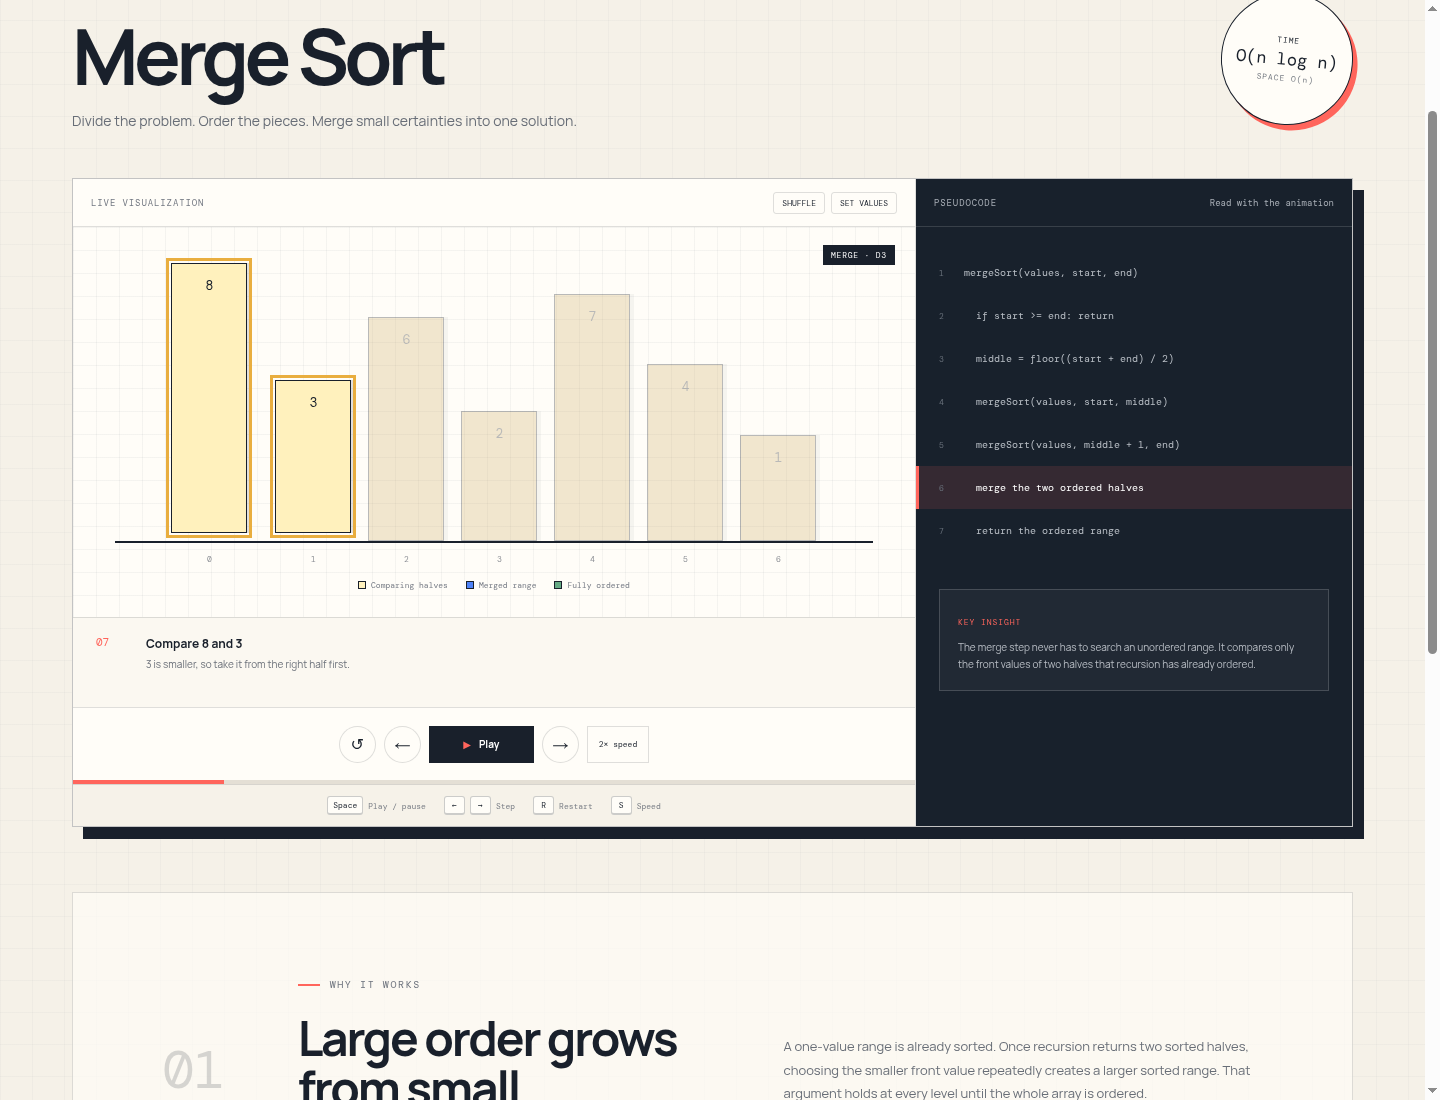
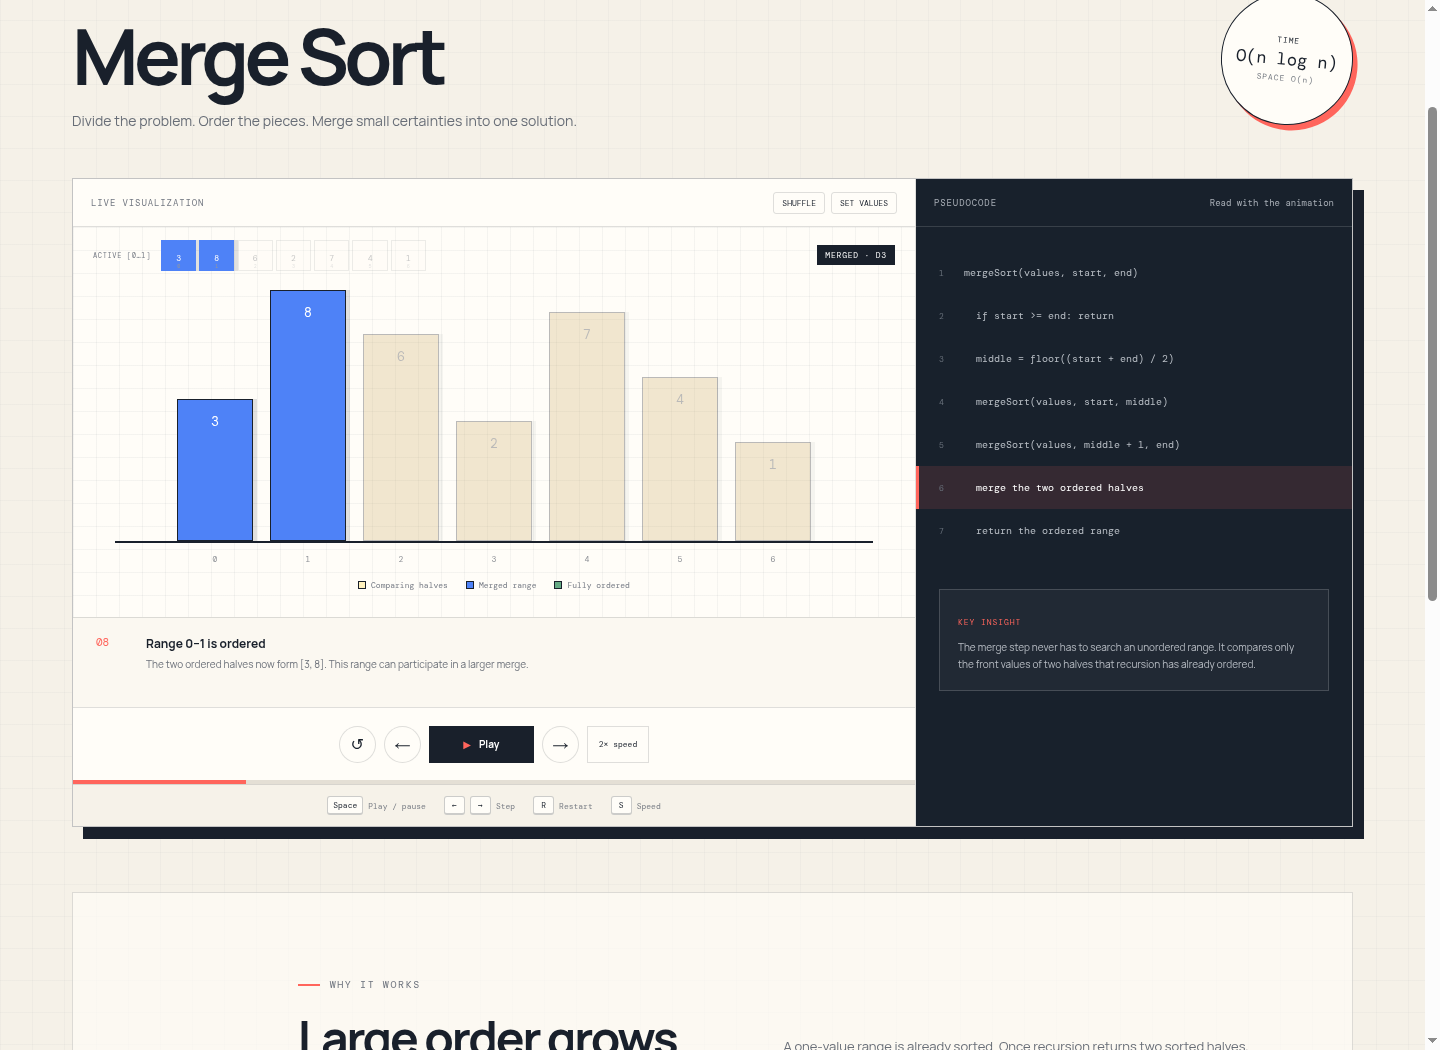
feat: add semantic array motion system

diff --git a/src/features/sorting/SortLesson.tsx b/src/features/sorting/SortLesson.tsx
@@ -1,4 +1,4 @@
-import { useEffect, useMemo, useState } from 'react'
+import { useEffect, useMemo, useState, type CSSProperties } from 'react'
 import { PredictionCheckpoint, type PredictionCheckpointDefinition } from '../learning/PredictionCheckpoint'
 import { ArrayInputControls } from './ArrayInputControls'
 import { getPlaybackCommand } from './playbackShortcuts'
@@ -54,6 +54,37 @@ export function SortLesson({ definition, lessons, onBack, onOpenLesson, onComple
   const step = steps[stepIndex]
   const isComplete = stepIndex === steps.length - 1
   const maxValue = Math.max(...step.values, 1)
+
+  const visualStateFor = (index: number) => {
+    const compared = step.compared?.includes(index) ?? false
+    const swapped = step.swapped?.includes(index) ?? false
+    const sorted = step.sortedIndices.includes(index)
+    const activeRange = step.activeRange
+    const inActiveRange = !activeRange || (index >= activeRange[0] && index <= activeRange[1])
+    const mergedRange = step.mergedRange
+    const merged = Boolean(mergedRange && index >= mergedRange[0] && index <= mergedRange[1])
+    const startsRightHalf = step.splitAt !== null && step.splitAt !== undefined && index === step.splitAt + 1
+    const arrivesFromRight = swapped && index === step.swapped?.[0]
+    const arrivesFromLeft = swapped && index === step.swapped?.[1]
+    const swapDistance = step.swapped ? Math.abs(step.swapped[1] - step.swapped[0]) * 112 : 0
+
+    return {
+      classes: [
+        !inActiveRange && 'is-range-inactive',
+        merged && 'is-merged',
+        compared && 'is-compared',
+        swapped && 'is-swapped',
+        arrivesFromRight && 'arrives-from-right',
+        arrivesFromLeft && 'arrives-from-left',
+        sorted && 'is-sorted',
+      ].filter(Boolean).join(' '),
+      startsRightHalf,
+      style: {
+        '--item-index': index,
+        '--swap-from': `${arrivesFromRight ? swapDistance : arrivesFromLeft ? -swapDistance : 0}%`,
+      } as CSSProperties,
+    }
+  }
 
   useEffect(() => {
     if (!playing) return
@@ -174,30 +205,35 @@ export function SortLesson({ definition, lessons, onBack, onOpenLesson, onComple
       <section className="lesson-workspace">
         <div className="visualizer-panel">
           <ArrayInputControls values={values} onApply={applyValues} onShuffle={shuffle} />
-          <div className="sort-stage">
+          <div className={`sort-stage ${playing ? 'is-playing' : ''}`}>
             <div className="pass-indicator">{step.phaseLabel ?? (step.pass ? `PASS ${step.pass}` : 'READY')}</div>
+            <div className="array-tape" aria-hidden="true">
+              <span>{step.activeRange ? `ACTIVE [${step.activeRange[0]}…${step.activeRange[1]}]` : `ARRAY · ${step.values.length} CELLS`}</span>
+              <div className="tape-cells" style={{ gridTemplateColumns: `repeat(${step.values.length}, minmax(0, 1fr))` }}>
+                {step.values.map((value, index) => {
+                  const visualState = visualStateFor(index)
+                  return (
+                    <i
+                      className={`tape-cell ${visualState.classes} ${visualState.startsRightHalf ? 'starts-right-half' : ''}`.trim()}
+                      style={visualState.style}
+                      key={index}
+                    >
+                      <b>{value}</b><small>{index}</small>
+                    </i>
+                  )
+                })}
+              </div>
+            </div>
             <div className="sort-bars" aria-label={`Current array: ${step.values.join(', ')}`}>
               {step.values.map((value, index) => {
-                const compared = step.compared?.includes(index)
-                const swapped = step.swapped?.includes(index)
-                const sorted = step.sortedIndices.includes(index)
-                const activeRange = step.activeRange
-                const inActiveRange = !activeRange || (index >= activeRange[0] && index <= activeRange[1])
-                const mergedRange = step.mergedRange
-                const merged = mergedRange && index >= mergedRange[0] && index <= mergedRange[1]
-                const startsRightHalf = step.splitAt !== null && step.splitAt !== undefined && index === step.splitAt + 1
-                const classNames = [
-                  'sort-bar',
-                  !inActiveRange && 'is-range-inactive',
-                  merged && 'is-merged',
-                  compared && 'is-compared',
-                  swapped && 'is-swapped',
-                  sorted && 'is-sorted',
-                ].filter(Boolean).join(' ')
+                const visualState = visualStateFor(index)
 
                 return (
-                  <div className={`bar-slot ${startsRightHalf ? 'starts-right-half' : ''}`} key={index}>
-                    <div className={classNames} style={{ height: `${30 + (value / maxValue) * 68}%` }}><strong>{value}</strong></div>
+                  <div className={`bar-slot ${visualState.startsRightHalf ? 'starts-right-half' : ''}`} key={index}>
+                    <div
+                      className={`sort-bar ${visualState.classes}`.trim()}
+                      style={{ ...visualState.style, height: `${30 + (value / maxValue) * 68}%` }}
+                    ><strong>{value}</strong></div>
                     <span>{index}</span>
                   </div>
                 )
@@ -220,7 +256,7 @@ export function SortLesson({ definition, lessons, onBack, onOpenLesson, onComple
             </div>
           </div>
 
-          <div className="step-narration" aria-live="polite">
+          <div className="step-narration" aria-live="polite" key={`${definition.slug}-${stepIndex}`}>
             <span>{String(stepIndex).padStart(2, '0')}</span>
             <div><strong>{step.title}</strong><p>{step.explanation}</p></div>
           </div>
@@ -228,7 +264,7 @@ export function SortLesson({ definition, lessons, onBack, onOpenLesson, onComple
           <div className="player-controls">
             <button className="control-button" type="button" onClick={restart} aria-label="Restart">↺</button>
             <button className="control-button" type="button" onClick={() => moveTo(stepIndex - 1)} disabled={stepIndex === 0} aria-label="Previous step">←</button>
-            <button className="play-button" type="button" onClick={() => isComplete ? restart() : setPlaying((current) => !current)}>
+            <button className={`play-button ${playing ? 'is-playing' : ''}`} type="button" onClick={() => isComplete ? restart() : setPlaying((current) => !current)}>
               <span aria-hidden="true">{isComplete ? '↺' : playing ? 'Ⅱ' : '▶'}</span>
               {isComplete ? 'Replay' : playing ? 'Pause' : 'Play'}
             </button>

diff --git a/src/App.css b/src/App.css
@@ -178,9 +178,22 @@ footer > span { text-align: right; color: #9da4ae; font: 9px var(--mono); text-t
 .array-input-field button { height: 34px; padding: 0 10px; border: 1px solid var(--ink); border-radius: 3px; background: var(--ink); color: white; cursor: pointer; font: 8px var(--mono); text-transform: uppercase; }
 .array-input-field button:last-child { border-color: var(--line); background: transparent; color: var(--ink); }
 .array-input-error { grid-column: 2; margin: 7px 0 0; color: #b43e36; font: 8px/1.5 var(--mono); }
-.sort-stage { position: relative; height: 390px; padding: 38px 42px 25px; overflow: hidden; background-image: linear-gradient(rgba(54,68,86,.05) 1px, transparent 1px), linear-gradient(90deg, rgba(54,68,86,.05) 1px, transparent 1px); background-size: 23px 23px; }
+.sort-stage { position: relative; height: 390px; padding: 58px 42px 25px; overflow: hidden; background-image: linear-gradient(rgba(54,68,86,.05) 1px, transparent 1px), linear-gradient(90deg, rgba(54,68,86,.05) 1px, transparent 1px); background-size: 23px 23px; }
 .pass-indicator { position: absolute; top: 18px; right: 20px; padding: 5px 8px; background: var(--ink); color: white; font: 8px var(--mono); letter-spacing: .1em; }
-.sort-bars { height: 278px; display: flex; align-items: flex-end; justify-content: center; gap: clamp(7px, 1.4vw, 17px); border-bottom: 2px solid var(--ink); }
+.sort-stage.is-playing .pass-indicator::before { content: ''; width: 5px; height: 5px; margin-right: 6px; display: inline-block; border-radius: 50%; background: var(--coral); box-shadow: 0 0 0 0 rgba(255,101,92,.6); animation: playback-pulse 1.1s ease-out infinite; }
+.array-tape { position: absolute; z-index: 3; top: 13px; left: 20px; display: flex; align-items: center; gap: 10px; }
+.array-tape > span { color: #747983; font: 7px var(--mono); letter-spacing: .09em; white-space: nowrap; }
+.tape-cells { width: clamp(150px, 25vw, 265px); display: grid; gap: 3px; }
+.tape-cell { min-width: 0; height: 31px; display: grid; grid-template-rows: 1fr auto; place-items: center; border: 1px solid rgba(25,32,43,.3); background: rgba(255,253,248,.9); color: var(--ink); font-style: normal; transition: opacity 220ms ease, background 220ms ease, border-color 220ms ease, transform 260ms ease; }
+.tape-cell b { align-self: end; font: 8px var(--mono); }
+.tape-cell small { align-self: start; color: #93969c; font: 5px var(--mono); }
+.tape-cell.is-range-inactive { opacity: .26; }
+.tape-cell.is-compared { border-color: var(--gold); background: #fff1bd; transform: translateY(-3px); box-shadow: 0 3px 0 var(--gold); }
+.tape-cell.is-swapped { border-color: var(--coral); background: var(--coral); color: white; }
+.tape-cell.is-merged { border-color: var(--blue); background: var(--blue); color: white; }
+.tape-cell.is-sorted { border-color: #4b946c; background: #65aa84; color: white; }
+.tape-cell.starts-right-half { margin-left: 5px; }
+.sort-bars { height: 258px; display: flex; align-items: flex-end; justify-content: center; gap: clamp(7px, 1.4vw, 17px); border-bottom: 2px solid var(--ink); }
 .bar-slot { width: min(76px, 13%); height: 100%; display: flex; flex-direction: column; justify-content: flex-end; align-items: center; position: relative; }
 .bar-slot > span { position: absolute; bottom: -23px; color: #8b8e94; font: 8px var(--mono); }
 .sort-bar { width: 100%; min-height: 70px; display: grid; place-items: start center; padding-top: 13px; border: 1px solid var(--ink); background: #e6b143; color: var(--ink); box-shadow: 4px 0 0 rgba(25,32,43,.13); transition: height 350ms cubic-bezier(.22,.9,.32,1), background 220ms ease, transform 220ms ease; }
@@ -190,6 +203,11 @@ footer > span { text-align: right; color: #9da4ae; font: 9px var(--mono); text-t
 .sort-bar.is-compared { background: #fff1bd; outline: 3px solid var(--gold); outline-offset: 2px; transform: translateY(-8px); }
 .sort-bar.is-swapped { background: var(--coral); color: white; transform: translateY(-12px); }
 .sort-bar.is-sorted { background: #65aa84; color: white; }
+.sort-bar.is-swapped.arrives-from-right { animation: arrive-from-right 520ms cubic-bezier(.2,.9,.25,1) both; }
+.sort-bar.is-swapped.arrives-from-left { animation: arrive-from-left 520ms cubic-bezier(.2,.9,.25,1) both; }
+.tape-cell.is-swapped.arrives-from-right { animation: tape-from-right 440ms cubic-bezier(.2,.9,.25,1) both; }
+.tape-cell.is-swapped.arrives-from-left { animation: tape-from-left 440ms cubic-bezier(.2,.9,.25,1) both; }
+.sort-bar.is-merged, .tape-cell.is-merged { animation: merge-settle 430ms cubic-bezier(.2,.9,.25,1) both; animation-delay: calc(var(--item-index) * 28ms); }
 .bar-slot.starts-right-half { margin-left: clamp(4px, .8vw, 11px); }
 .visual-legend { display: flex; gap: 18px; margin-top: 37px; justify-content: center; color: #747983; font: 8px var(--mono); }
 .visual-legend span { display: flex; align-items: center; gap: 5px; }
@@ -199,12 +217,14 @@ footer > span { text-align: right; color: #9da4ae; font: 9px var(--mono); text-t
 .step-narration > span { color: var(--coral); font: 11px var(--mono); }
 .step-narration strong { display: block; margin-bottom: 5px; font-size: 12px; }
 .step-narration p { margin: 0; color: #6b7079; font-size: 10px; line-height: 1.55; }
+.step-narration { animation: narration-in 260ms ease-out both; }
 .player-controls { min-height: 73px; display: flex; align-items: center; justify-content: center; gap: 8px; border-top: 1px solid var(--line); }
 .control-button, .speed-button, .play-button { height: 37px; border: 1px solid var(--line); background: var(--paper); cursor: pointer; }
 .control-button { width: 37px; border-radius: 50%; }
 .control-button:disabled { opacity: .3; cursor: not-allowed; }
 .play-button { min-width: 105px; padding: 0 18px; display: flex; justify-content: center; align-items: center; gap: 8px; border-color: var(--ink); background: var(--ink); color: white; font-size: 10px; font-weight: 700; }
 .play-button span { color: var(--coral); }
+.play-button.is-playing span { animation: playing-mark 900ms ease-in-out infinite alternate; }
 .speed-button { padding: 0 11px; font: 8px var(--mono); }
 .timeline { height: 4px; background: #e4dfd5; }
 .timeline span { display: block; height: 100%; background: var(--coral); transition: width 250ms ease; }
@@ -217,6 +237,7 @@ footer > span { text-align: right; color: #9da4ae; font: 9px var(--mono); text-t
 .code-panel ol { margin: 24px 0 0; padding: 0; list-style: none; counter-reset: code; }
 .code-panel li { min-height: 43px; padding: 0 20px; display: grid; grid-template-columns: 25px 1fr; align-items: center; border-left: 3px solid transparent; color: #b8bec5; transition: background 180ms ease, color 180ms ease; }
 .code-panel li.is-active { border-left-color: var(--coral); background: rgba(255,101,92,.13); color: white; }
+.code-panel li.is-active code { animation: code-line-in 260ms ease-out both; }
 .code-panel li > span { color: #69717b; font: 8px var(--mono); }
 .code-panel code { overflow: hidden; color: inherit; background: transparent; font: 10px/1.4 var(--mono); white-space: pre; text-overflow: ellipsis; }
 .insight-note { margin: 37px 23px 23px; padding: 18px; border: 1px solid rgba(255,255,255,.17); background: rgba(255,255,255,.04); }
@@ -255,6 +276,15 @@ footer > span { text-align: right; color: #9da4ae; font: 9px var(--mono); text-t
 @keyframes spin { to { transform: rotate(360deg); } }
 @keyframes pulse { 75%,100% { box-shadow: 0 0 0 10px rgba(84,163,120,0); } }
 @keyframes bars { 0%,100% { transform: translateY(0); } 44% { transform: translateY(-8px); } 52% { transform: translateY(0); } }
+@keyframes arrive-from-right { from { opacity: .55; transform: translateX(var(--swap-from)) translateY(-20px) rotate(3deg); } 72% { transform: translateX(0) translateY(-16px) rotate(-1deg); } to { opacity: 1; transform: translateX(0) translateY(-12px) rotate(0); } }
+@keyframes arrive-from-left { from { opacity: .55; transform: translateX(var(--swap-from)) translateY(-20px) rotate(-3deg); } 72% { transform: translateX(0) translateY(-16px) rotate(1deg); } to { opacity: 1; transform: translateX(0) translateY(-12px) rotate(0); } }
+@keyframes tape-from-right { from { opacity: .5; transform: translateX(var(--swap-from)) scale(.88); } to { opacity: 1; transform: translateX(0) scale(1); } }
+@keyframes tape-from-left { from { opacity: .5; transform: translateX(var(--swap-from)) scale(.88); } to { opacity: 1; transform: translateX(0) scale(1); } }
+@keyframes merge-settle { from { opacity: .45; transform: translateY(-14px) scale(.92); box-shadow: 0 10px 0 rgba(78,130,247,.18); } to { opacity: 1; transform: translateY(0) scale(1); box-shadow: 4px 0 0 rgba(25,32,43,.13); } }
+@keyframes narration-in { from { opacity: .35; transform: translateY(5px); } to { opacity: 1; transform: translateY(0); } }
+@keyframes code-line-in { from { opacity: .45; transform: translateX(8px); } to { opacity: 1; transform: translateX(0); } }
+@keyframes playback-pulse { to { box-shadow: 0 0 0 7px rgba(255,101,92,0); } }
+@keyframes playing-mark { to { opacity: .45; } }
 
 @media (max-width: 980px) {
   .hero-section { min-height: auto; grid-template-columns: 1fr; padding-top: 65px; }
@@ -314,7 +344,7 @@ footer > span { text-align: right; color: #9da4ae; font: 9px var(--mono); text-t
   .complexity-stamp { width: 92px; height: 92px; }
   .complexity-stamp strong { font-size: 18px; }
   .complexity-stamp strong.is-long { font-size: 13px; }
-  .sort-stage { height: 330px; padding: 38px 18px 20px; }
+  .sort-stage { height: 350px; padding: 58px 18px 20px; }
   .panel-label { padding: 0 12px; }
   .panel-actions { gap: 4px; }
   .panel-label button { padding: 5px 6px; }
@@ -323,6 +353,10 @@ footer > span { text-align: right; color: #9da4ae; font: 9px var(--mono); text-t
   .array-input-field button:last-child { grid-column: 1 / -1; }
   .array-input-error { grid-column: 1; margin-top: 0; }
   .sort-bars { height: 220px; gap: 7px; }
+  .array-tape { left: 13px; gap: 0; }
+  .array-tape > span { display: none; }
+  .tape-cells { width: min(215px, 58vw); gap: 2px; }
+  .tape-cell { height: 29px; }
   .visual-legend { gap: 9px; }
   .player-controls { gap: 5px; }
   .speed-button { padding: 0 6px; }

diff --git a/docs/ARCHITECTURE.md b/docs/ARCHITECTURE.md
@@ -132,6 +132,19 @@ Merge Sort keeps the visible segment unchanged while comparing the front candida
 
 `activeRange` dims unrelated recursion branches, `splitAt` identifies the boundary between the two halves, and `mergedRange` identifies a newly ordered result. The React view decides how those meanings look; the generator never emits opacity, spacing, or colors.
 
+### Motion and dual array representation
+
+The shared player renders every array in two synchronized forms:
+
+- The memory tape emphasizes fixed indices and value storage.
+- The bars emphasize relative magnitude and movement.
+
+Both derive from the same immutable `SortStep`; neither owns algorithm state. Comparison, swapped, merged, sorted, and inactive-range classes are calculated once per index and applied to both representations.
+
+Directional swap motion is derived from the semantic pair `[left, right]`. The view computes a signed starting offset, so the new value at the left index arrives from the right and vice versa. Merge events use their index position only to stagger a settling animation across the committed range. These are presentation calculations: event generators still know nothing about distance, duration, easing, or color.
+
+Narration remounts by timeline index so each explanation enters as a distinct beat, while the current pseudocode line receives a short emphasis transition. A play-state pulse communicates that time is advancing. The global `prefers-reduced-motion` rule reduces all animations and transitions to effectively instantaneous state changes.
+
 ## State model
 
 ```mermaid
@@ -194,6 +207,8 @@ Current foundations:
 - Protection for native browser shortcuts and focused interactive elements
 - Labeled custom-array field with described constraints and live validation errors
 - Visible shortcut reference in every sorting lesson
+- Indexed memory tape paired with magnitude bars for visual redundancy
+- Reduced-motion fallback for swaps, merges, narration, code emphasis, and playback pulses
 - Live prediction feedback with retryable answers
 - Disabled answer state only after a correct response
 - Reduced-motion media query
@@ -223,7 +238,7 @@ Pull requests run the same quality gate but cannot upload or deploy the site. Ac
 ## Deferred decisions
 
 - **Global state library:** local state is sufficient today.
-- **Animation library:** CSS transitions cover the current choreography.
+- **Animation library:** CSS keyframes and transitions cover the current semantic choreography. Revisit this only when interruptible or layout-measured timelines become difficult to coordinate reliably.
 - **Backend:** progress can begin in local storage.
 - **Content management:** typed local lesson modules are simpler at the current scale.
 - **Routing library:** the typed hash layer supports the current flat catalogue and works without server fallback configuration on GitHub Pages. A dependency becomes justified for nested layouts, route loaders, or URL parameters.

diff --git a/README.md b/README.md
@@ -33,6 +33,8 @@ The goal is not to make algorithms merely look animated. The goal is to make the
 - Three playback speeds
 - Random input generation
 - User-defined arrays with inline validation and duplicate-value support
+- Dual array representation with indexed memory cells and magnitude bars
+- Directional swap motion, staggered merge settling, and animated step narration
 - Synchronized pseudocode highlighting
 - Step-specific explanations and pass tracking
 - Direct lesson links for each implemented algorithm
@@ -50,7 +52,7 @@ The goal is not to make algorithms merely look animated. The goal is to make the
 <details>
 <summary>Recursive Merge Sort lesson</summary>
 
-Merge Sort adds semantic split boundaries, active recursive ranges, cross-half comparisons, and committed merged ranges without coupling the algorithm to pixel positions.
+Merge Sort adds semantic split boundaries, active recursive ranges, cross-half comparisons, and committed merged ranges. The memory tape keeps indices visible while staggered bars show the merge settling into place—without coupling the algorithm to pixel positions.
 
 | Desktop | Mobile |
 | --- | --- |
@@ -158,7 +160,7 @@ This boundary keeps the algorithm testable without a browser and allows the UI t
 - Oxlint
 - CSS animations and responsive layout
 
-No visualization or animation library is currently required. That is intentional: the current sorting interactions remain small enough for browser-native transitions, and a dependency should only be introduced when it solves a demonstrated orchestration problem.
+No visualization or animation library is currently required. Semantic event metadata drives browser-native transitions: swap pairs produce directional travel, merge ranges produce staggered settling, and comparison/range states update both the memory tape and bars. A dependency should only be introduced when timelines require interruption, shared layout measurement, or choreography that CSS can no longer express clearly.
 
 ## Getting started
 

diff --git a/docs/CONTRIBUTING.md b/docs/CONTRIBUTING.md
@@ -52,6 +52,8 @@ Do not emit pixel positions, colors, or animation delays from algorithm code.
 
 Recursive lessons should describe structural meaning with ranges and boundaries. When auxiliary storage is involved, ensure a comparison event still refers to the values visible at its referenced indices; do not emit partially overwritten snapshots that tell a false visual story.
 
+Motion must be derived from semantic events rather than embedded in algorithm output. Verify the settled state, at least one mid-transition frame, mobile layout, keyboard stepping, and `prefers-reduced-motion`. Avoid adding animation dependencies for effects that CSS can express without hidden state or layout measurement.
+
 ## Commit style
 
 Use focused conventional commits: